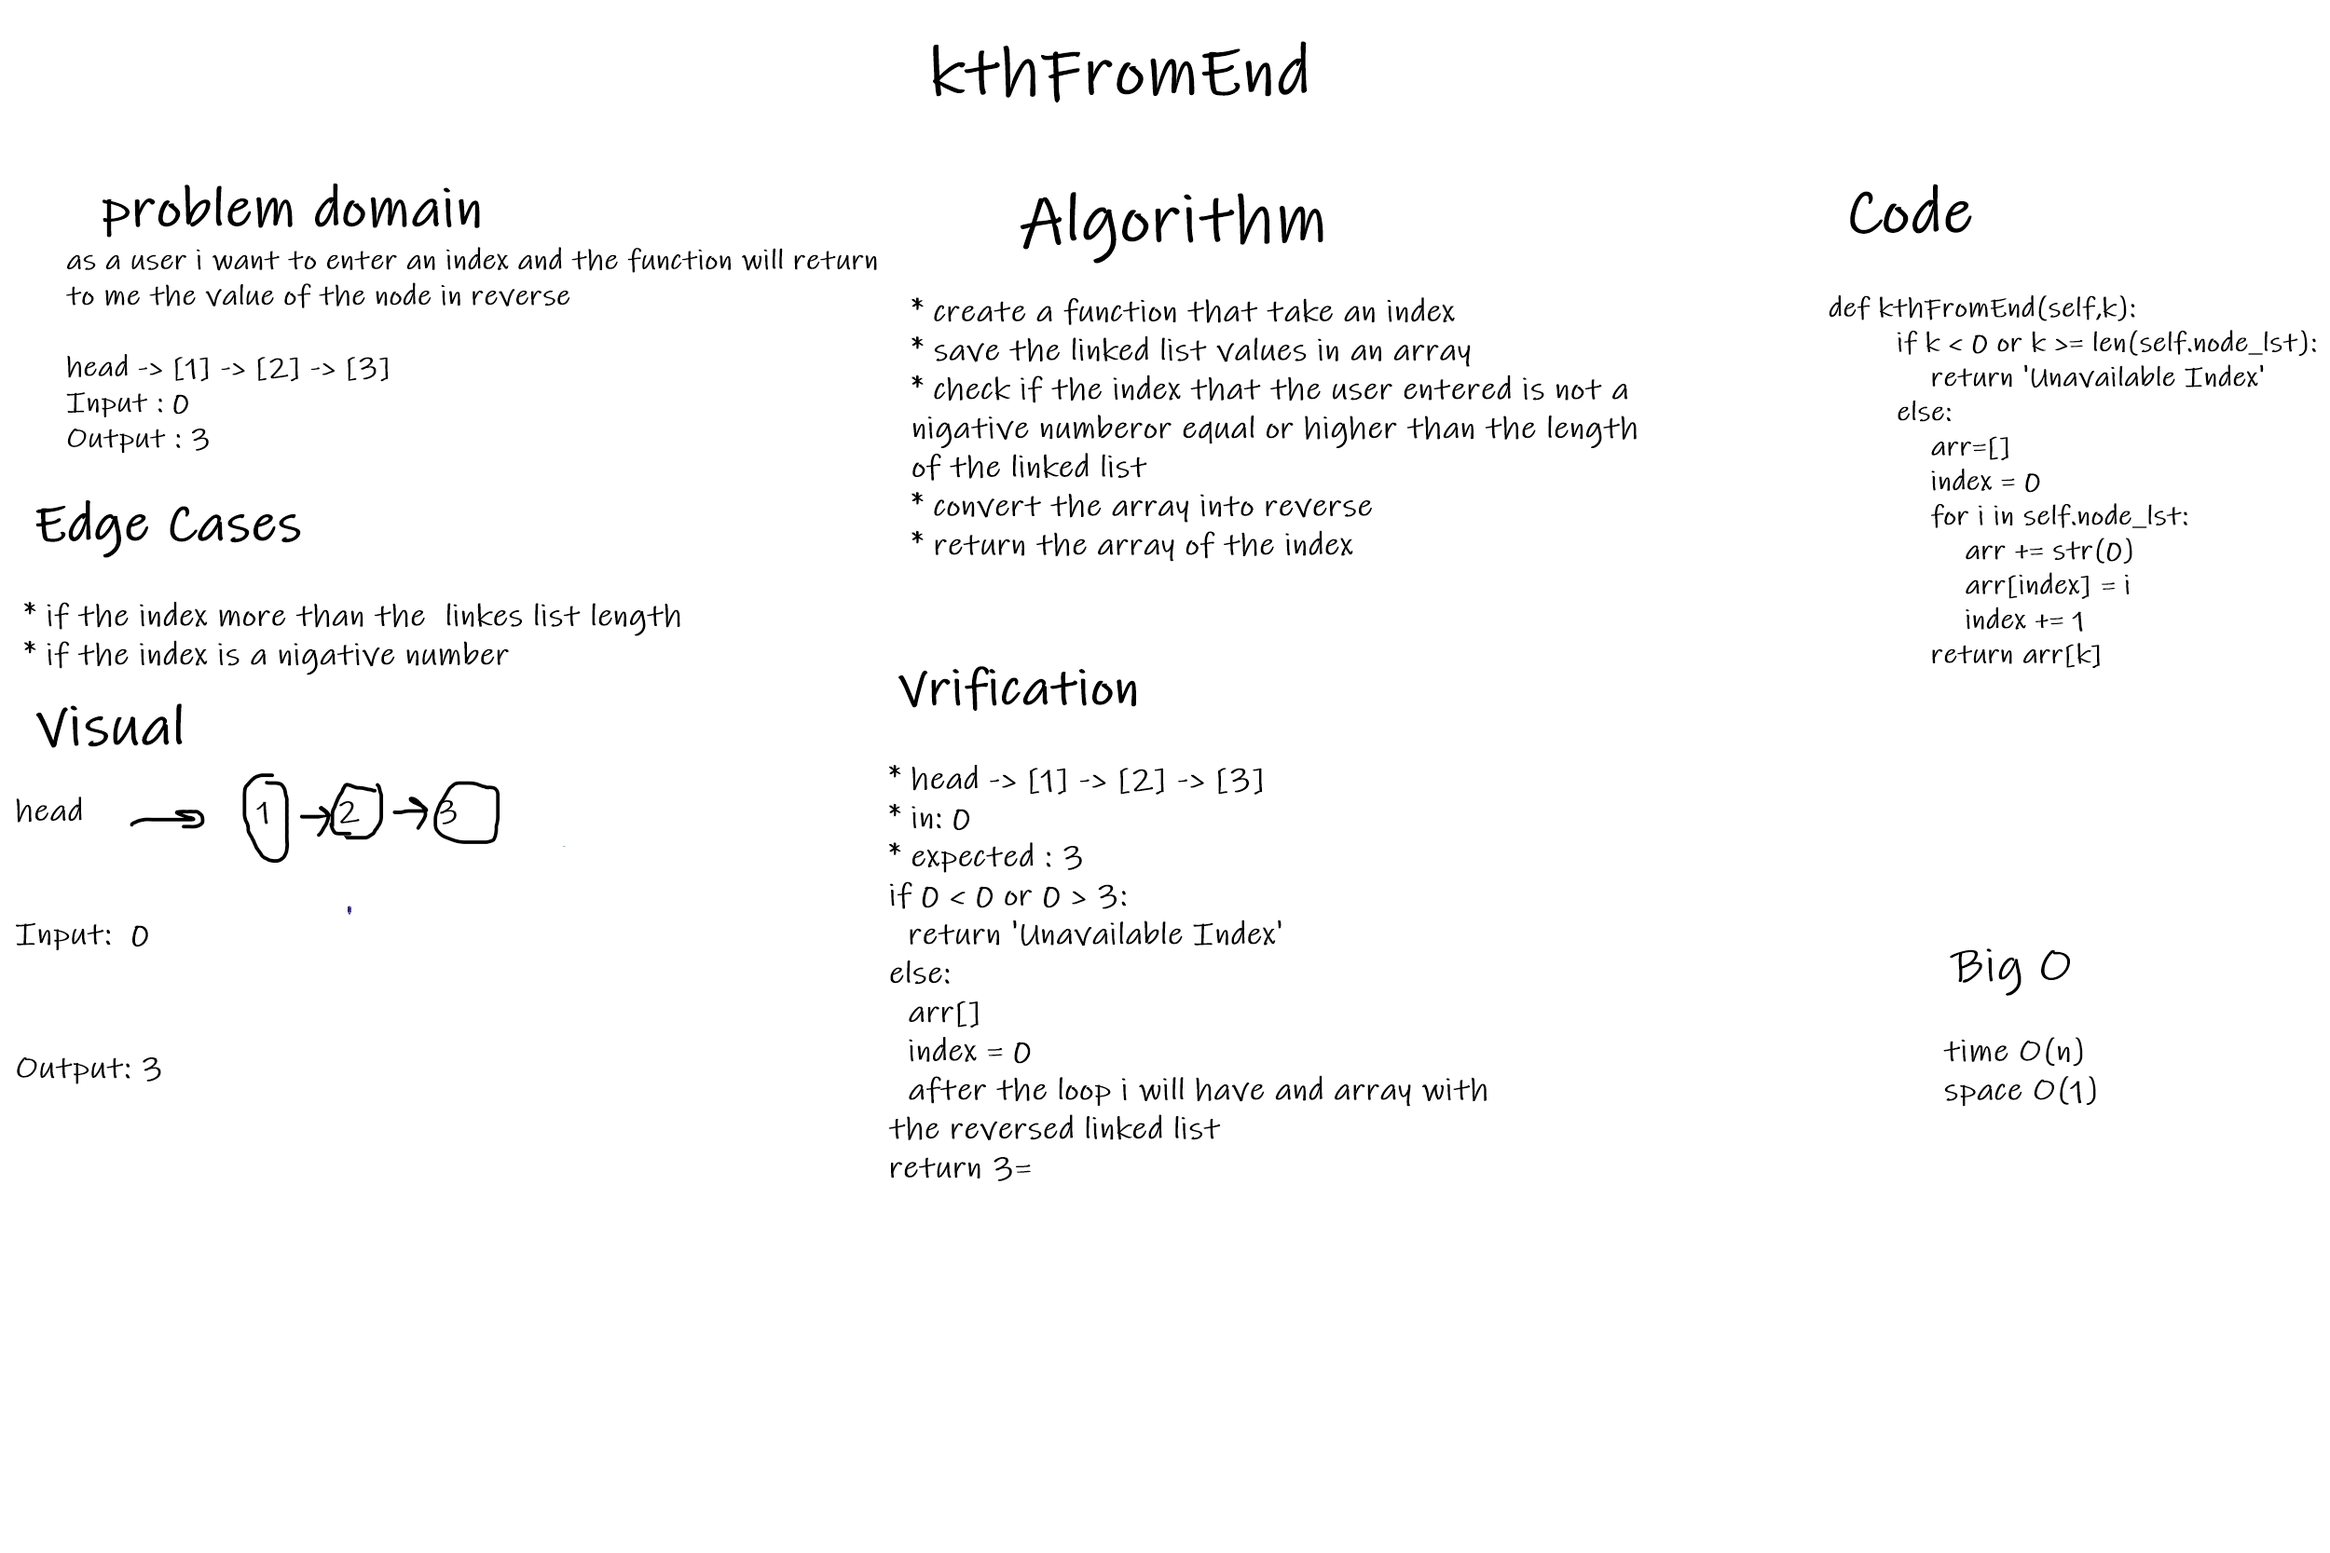
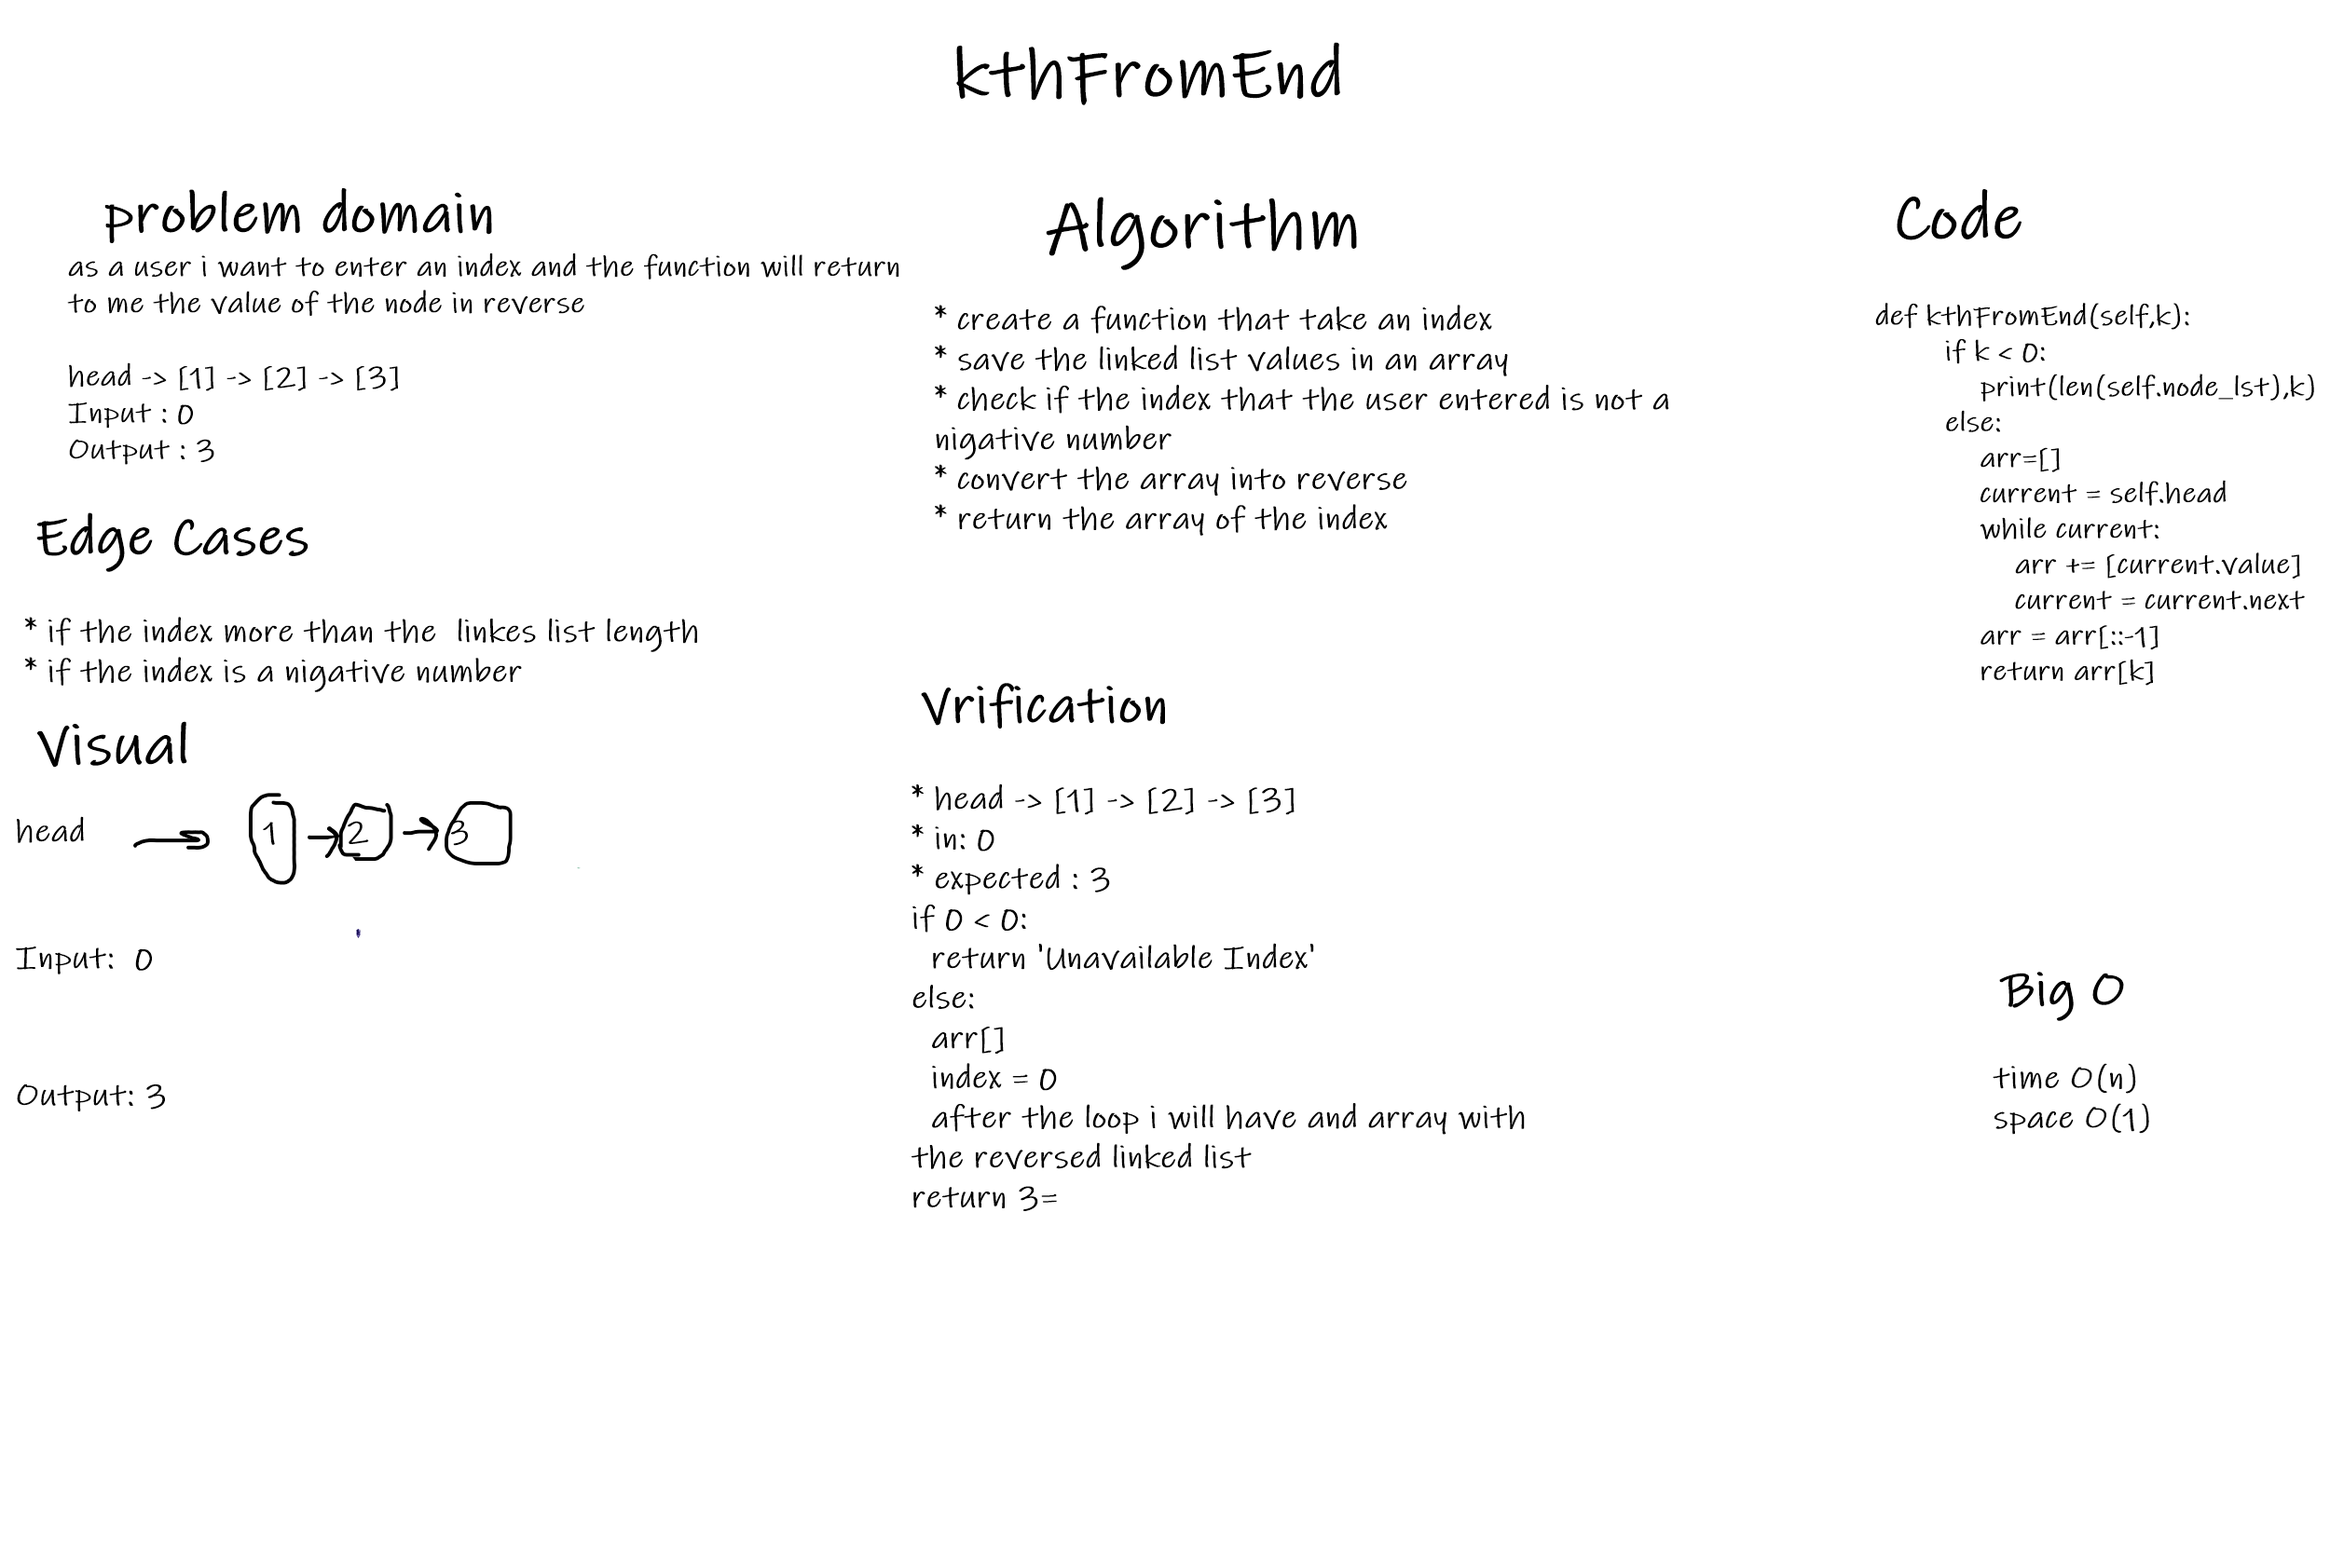
doing code-07

diff --git a/Data-Structures/linked-list/tests/test_linked_list.py b/Data-Structures/linked-list/tests/test_linked_list.py
@@ -132,38 +132,38 @@ def test_insert_node_after_last_node():
     assert excepted==actual
 
 
-def kthFromEnd_test1():
+def test_kthFromEnd_1():
     lnk_lst=LinkedList()
-    lnk_lst.append(1)
-    lnk_lst.append(3)
-    lnk_lst.append(8)
-    lnk_lst.append(2)
+    lnk_lst.insert(1)
+    lnk_lst.insert(3)
+    lnk_lst.insert(8)
+    lnk_lst.insert(2)
     excepted=2
-    actual=lnk_lst.kthFormEnd(0)
+    actual=lnk_lst.kthFromEnd(0)
     assert excepted==actual
 
 
 
 
-def kthFromEnd_test2():
+def test_kthFromEnd_2():
     lnk_lst=LinkedList()
     lnk_lst.append(1)
     lnk_lst.append(3)
     lnk_lst.append(8)
     lnk_lst.append(2)
     excepted=3
-    actual=lnk_lst.kthFormEnd(2)
+    actual=lnk_lst.kthFromEnd(2)
     assert excepted==actual
 
 
     
-def kthFromEnd_test1():
+def test_kthFromEnd_3():
     lnk_lst=LinkedList()
     lnk_lst.append(1)
     lnk_lst.append(3)
     lnk_lst.append(8)
     lnk_lst.append(2)
     excepted='Unavailable Index'
-    actual=lnk_lst.kthFormEnd(6)
+    actual=lnk_lst.kthFromEnd(6)
     assert excepted==actual
 

diff --git a/Data-Structures/linked-list/linked_list/linked_list.py b/Data-Structures/linked-list/linked_list/linked_list.py
@@ -121,15 +121,15 @@ class LinkedList:
 
     
     def kthFromEnd(self,k):
-        if k < 0 or k >= len(self.node_lst):
-            return 'Unavailable Index'
+        if k < 0:
+            print(len(self.node_lst),k)
         else:
             arr=[]
-            index = 0
-            for i in self.node_lst:
-                arr += str(0)
-                arr[index] = i
-                index += 1
+            current = self.head
+            while current:
+                arr += [current.value]
+                current = current.next
+            arr = arr[::-1]
             return arr[k]
 
 
